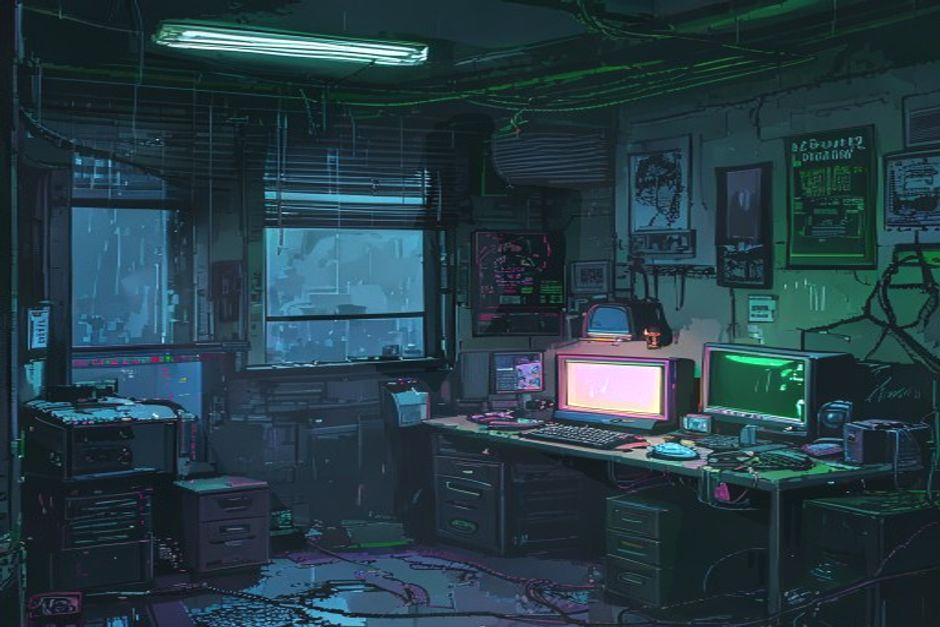
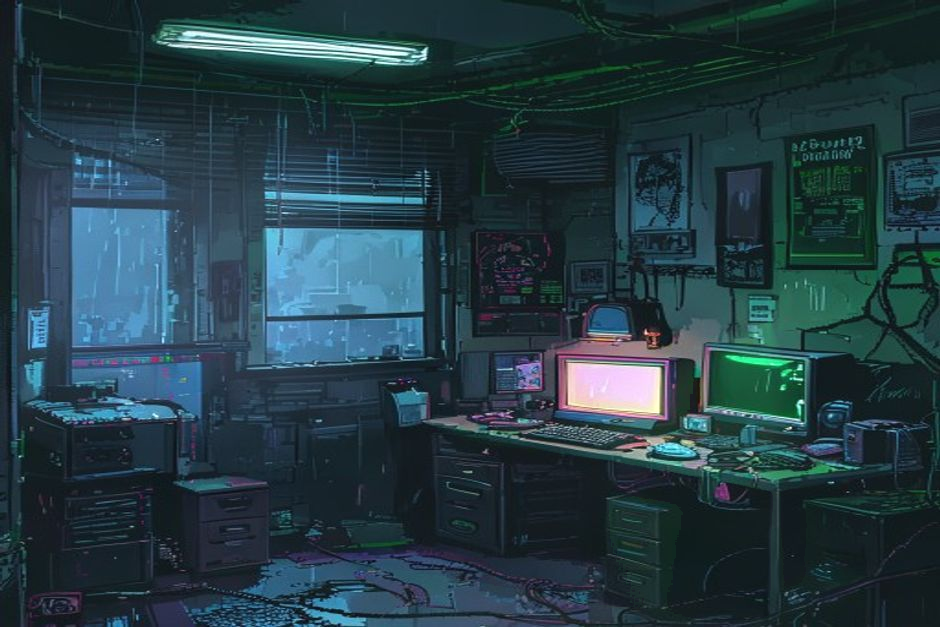
feat: physically correct light positions + brighter sources
- Moonlight: directional light (parallel rays, no distance decay)
- Car headlights: point sources from street level (-200,500)/(400,600), not at window
- Increased intensities: moon 0.45, car1 0.6, car2 0.35, screen 0.35
- Screen glow visible on desk, moonlight on floor, car on window

Changed region(s): [[0.0, 0.2121, 0.3702, 0.6364]]

diff --git a/gen_depth_lighting.py b/gen_depth_lighting.py
@@ -120,27 +120,29 @@ SCENE_LIGHTS = {
         "base": "bg_apartment.png",
         "ambient": 0.02,
         "lights": [
-            # 月光从窗户进来，在窗附近最强，向室内衰减
-            {"name": "moonlight", "pos": (120, 280),
-             "color": [0.55, 0.65, 0.85], "intensity": (0.08, 0.22),
-             "radius": 600, "phase": _moonlight_clouds,
-             "mask": {"type": "cone", "dir": (1, 0.3), "angle_deg": 120, "feather": 30}},
-            # 车灯：照亮窗户区域，微弱进室内
-            {"name": "car1", "pos": (60, 220),
-             "color": [1.0, 0.92, 0.7], "intensity": (0.0, 0.35),
-             "radius": 500, "phase": _irregular_car,
-             "mask": {"type": "rect", "region": (0, 80, 300, 400), "feather": 80}},
-            {"name": "car2", "pos": (200, 180),
-             "color": [1.0, 0.85, 0.6], "intensity": (0.0, 0.2),
-             "radius": 450, "phase": _phase_shift(_irregular_car, 3),
-             "mask": {"type": "rect", "region": (0, 60, 320, 420), "feather": 100}},
-            # 屏幕光：照亮桌面和面对屏幕的墙壁，不照天花板
+            # 月光：方向光，从窗外平行射入，无距离衰减
+            {"name": "moonlight",
+             "distant": True,
+             "dir": (1, 0.3),              # 光线方向：从左上往右下
+             "color": [0.55, 0.65, 0.85], "intensity": (0.15, 0.45),
+             "phase": _moonlight_clouds,
+             "mask": {"type": "rect", "region": (0, 80, 400, 450), "feather": 120}},
+            # 车灯：点光源，位置在街上（窗户左下方远处）
+            {"name": "car1", "pos": (-200, 500),
+             "color": [1.0, 0.92, 0.7], "intensity": (0.0, 0.6),
+             "radius": 800, "phase": _irregular_car,
+             "mask": {"type": "rect", "region": (0, 60, 350, 430), "feather": 80}},
+            {"name": "car2", "pos": (400, 600),
+             "color": [1.0, 0.85, 0.6], "intensity": (0.0, 0.35),
+             "radius": 900, "phase": _phase_shift(_irregular_car, 3),
+             "mask": {"type": "rect", "region": (0, 60, 350, 430), "feather": 100}},
+            # 屏幕光：照亮桌面和面对屏幕的墙壁
             {"name": "screen", "pos": (770, 320),
-             "color": [0.15, 0.7, 0.25], "intensity": (0.03, 0.18),
+             "color": [0.15, 0.7, 0.25], "intensity": (0.06, 0.35),
              "radius": 280, "phase": _irregular_screen,
              "mask": {"type": "cone", "dir": (-0.5, 1), "angle_deg": 100, "feather": 25}},
             {"name": "screen_flash", "pos": (750, 280),
-             "color": [0.3, 0.85, 0.4], "intensity": (0.0, 0.08),
+             "color": [0.3, 0.85, 0.4], "intensity": (0.0, 0.15),
              "radius": 200, "phase": _phase_shift(_irregular_screen, 5),
              "mask": {"type": "cone", "dir": (-0.3, 1), "angle_deg": 80, "feather": 20}},
         ],
@@ -430,31 +432,42 @@ def compute_lighting(depth_map, frame_idx, img_h, img_w, scene_config):
     total_light += scene_config.get("ambient", AMBIENT)
 
     for src in scene_config["lights"]:
-        lx, ly = src["pos"]
         color = np.array(src["color"])
         r_min, r_max = src["intensity"]
-        radius = src["radius"]
-
         intensity = r_min + (r_max - r_min) * src["phase"](frame_idx, NUM_FRAMES)
 
-        dist = np.sqrt((xx - lx) ** 2 + (yy - ly) ** 2)
-        attenuation = 1.0 / (1.0 + (dist / radius) ** 2)
-        depth_factor = 1.0 - depth_float
-        shadow = ray_march_shadows(depth_float, (lx, ly), img_h, img_w)
-
-        # Light mask: 限制光源影响区域
+        # Light mask
         mask_def = src.get("mask")
         if mask_def:
+            lx = src["pos"][0] if "pos" in src else img_w // 2
+            ly = src["pos"][1] if "pos" in src else img_h // 2
             light_mask = generate_light_mask(mask_def, img_h, img_w, (lx, ly))
         else:
             light_mask = np.ones((img_h, img_w), dtype=np.float32)
 
-        contrib = (color[np.newaxis, np.newaxis, :] *
-                   intensity *
-                   attenuation[:, :, np.newaxis] *
-                   depth_factor[:, :, np.newaxis] *
-                   shadow[:, :, np.newaxis] *
-                   light_mask[:, :, np.newaxis])
+        if src.get("distant"):
+            # 方向光：平行光线，无距离衰减，无阴影，纯 mask 驱动
+            # depth_factor 仍然生效（近处表面更亮）
+            depth_factor = 1.0 - depth_float
+            contrib = (color[np.newaxis, np.newaxis, :] *
+                       intensity *
+                       depth_factor[:, :, np.newaxis] *
+                       light_mask[:, :, np.newaxis])
+        else:
+            # 点光源：距离衰减 + 阴影 + mask
+            lx, ly = src["pos"]
+            radius = src["radius"]
+            dist = np.sqrt((xx - lx) ** 2 + (yy - ly) ** 2)
+            attenuation = 1.0 / (1.0 + (dist / radius) ** 2)
+            depth_factor = 1.0 - depth_float
+            shadow = ray_march_shadows(depth_float, (lx, ly), img_h, img_w)
+            contrib = (color[np.newaxis, np.newaxis, :] *
+                       intensity *
+                       attenuation[:, :, np.newaxis] *
+                       depth_factor[:, :, np.newaxis] *
+                       shadow[:, :, np.newaxis] *
+                       light_mask[:, :, np.newaxis])
+
         total_light += contrib
 
     return np.clip(total_light, 0.0, 1.5)
